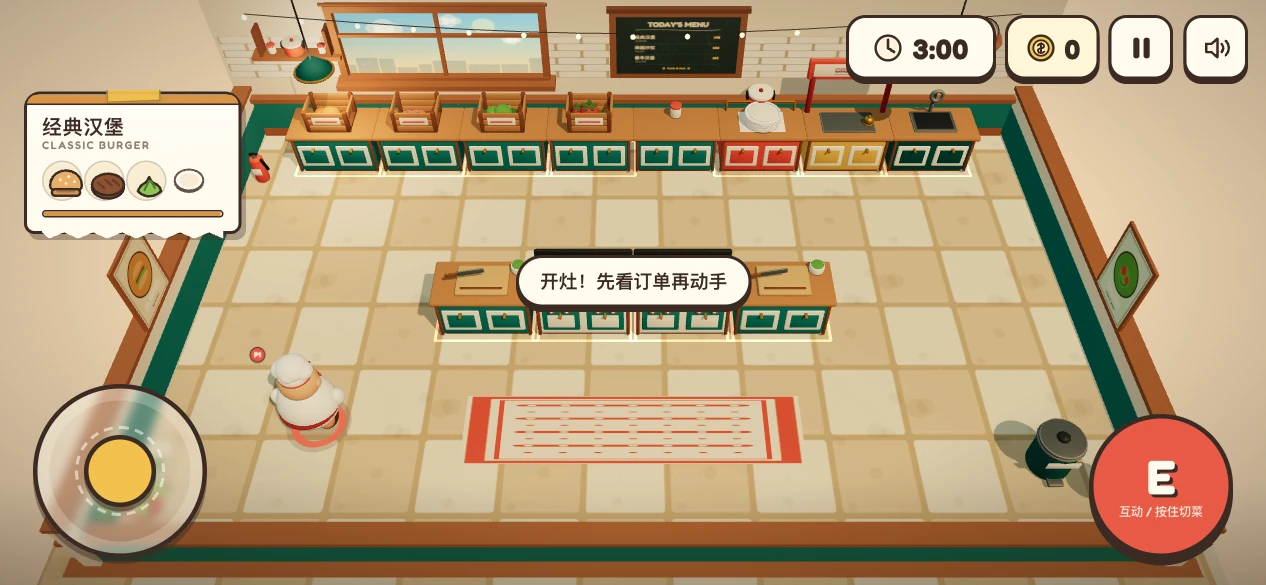
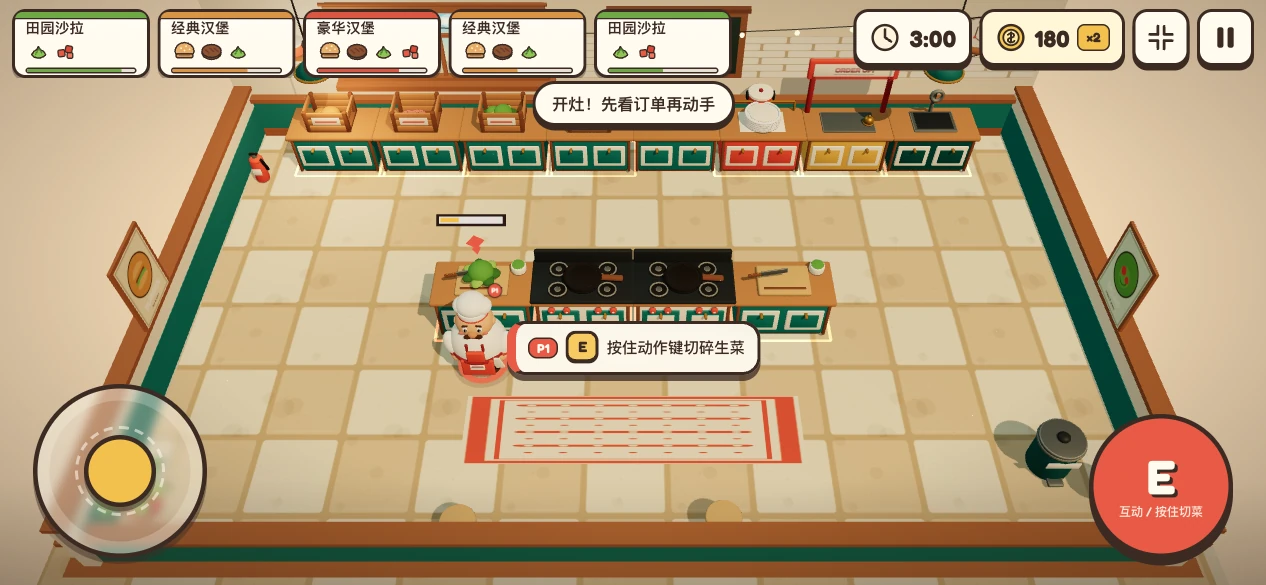
fix: compact mobile order rail so it no longer blocks play

diff --git a/src/App.css b/src/App.css
@@ -3317,3 +3317,237 @@
     font-size: 0.8rem;
   }
 }
+
+/* ===================================================== compact mobile HUD */
+/* Phones have very little vertical room: keep the order rail to one short
+   strip beside the stats instead of stacking two large rows over the kitchen. */
+
+.score-combo {
+  display: none;
+}
+
+@media (max-width: 980px) {
+  .hud {
+    padding: max(6px, env(safe-area-inset-top)) 8px
+      max(8px, env(safe-area-inset-bottom));
+  }
+
+  .hud-top {
+    grid-template-columns: minmax(0, 1fr) auto;
+    grid-template-areas: "orders stats";
+    gap: 6px;
+    align-items: start;
+  }
+
+  .order-rail {
+    height: 46px;
+    min-height: 0;
+    padding: 0;
+    gap: 5px;
+    align-items: stretch;
+    justify-content: flex-start;
+  }
+
+  .order-ticket {
+    flex: 0 0 92px;
+    width: 92px;
+    min-width: 92px;
+    max-width: 92px;
+    height: 46px;
+    padding: 5px 7px 4px;
+    border-width: 2px;
+    border-radius: 9px;
+    box-shadow: 0 2px 0 rgba(59, 42, 35, 0.35);
+  }
+
+  .order-ticket::before {
+    height: 4px;
+    border-radius: 6px 6px 0 0;
+    border-bottom-width: 1px;
+  }
+
+  .order-ticket::after,
+  .ticket-pin,
+  .ticket-en,
+  .ticket-plate {
+    display: none;
+  }
+
+  .ticket-top {
+    margin-top: 0;
+    min-width: 0;
+  }
+
+  .ticket-name {
+    overflow: hidden;
+    font-size: 0.62rem;
+    line-height: 1.15;
+    text-overflow: ellipsis;
+    white-space: nowrap;
+  }
+
+  .ticket-ingredients {
+    gap: 0;
+    min-height: 18px;
+    margin: 1px 0 2px;
+  }
+
+  .ticket-ingredient {
+    width: 18px;
+    height: 18px;
+    border: 0;
+    background: transparent;
+  }
+
+  .ticket-ingredient svg {
+    width: 18px;
+    height: 18px;
+  }
+
+  .ticket-timer {
+    height: 4px;
+    border-width: 1px;
+    border-radius: 3px;
+  }
+
+  .order-empty {
+    flex-direction: row;
+    gap: 5px;
+    min-width: 190px;
+    min-height: 0;
+    height: 46px;
+    padding: 0 10px;
+    font-size: 0.6rem;
+  }
+
+  .order-empty span {
+    font-size: 0.52rem;
+  }
+
+  .hud-stats {
+    gap: 5px;
+  }
+
+  .stat-pill {
+    min-height: 38px;
+    padding: 5px 8px;
+    border-width: 2px;
+    border-radius: 10px;
+  }
+
+  .timer {
+    min-width: 78px;
+    font-size: 0.98rem;
+  }
+
+  .score-pill {
+    font-size: 0.98rem;
+  }
+
+  .hud-buttons {
+    gap: 5px;
+  }
+
+  .hud-btn {
+    width: 38px;
+    height: 38px;
+    border-width: 2px;
+    border-radius: 10px;
+  }
+
+  .hud-mute {
+    display: none;
+  }
+
+  .score-combo {
+    display: inline-flex;
+    align-items: center;
+    justify-content: center;
+    min-width: 22px;
+    height: 18px;
+    padding: 0 4px;
+    border: 1.5px solid var(--ink);
+    border-radius: 5px;
+    background: var(--gold);
+    color: var(--ink);
+    font-size: 0.56rem;
+    font-weight: 700;
+    line-height: 1;
+  }
+
+  .combo-badge {
+    display: none;
+  }
+
+  .toast-stack {
+    top: 56px;
+    width: min(78vw, 430px);
+  }
+
+  .toast {
+    padding: 5px 11px;
+    font-size: 0.68rem;
+  }
+}
+
+@media (max-width: 980px) and (max-height: 540px) {
+  .player-prompt {
+    gap: 5px;
+    padding: 5px 8px;
+    border-left-width: 6px;
+    font-size: 0.64rem;
+  }
+
+  .prompt-player {
+    padding: 1px 5px;
+    font-size: 0.54rem;
+  }
+
+  .prompt-key {
+    min-width: 22px;
+    height: 22px;
+    border-bottom-width: 3px;
+    font-size: 0.62rem;
+  }
+
+  .prompt-carry {
+    max-width: 125px;
+    font-size: 0.55rem;
+  }
+
+  .prompt-carry-dish {
+    overflow: hidden;
+    max-width: 60px;
+    text-overflow: ellipsis;
+    white-space: nowrap;
+  }
+
+  .ticket-name {
+    font-size: 0.6rem;
+  }
+
+  .toast-stack {
+    top: 54px;
+  }
+}
+
+@media (max-width: 720px) {
+  .order-rail {
+    gap: 4px;
+  }
+  .order-ticket {
+    flex-basis: 78px;
+    width: 78px;
+    min-width: 78px;
+    max-width: 78px;
+    padding: 5px 6px 4px;
+  }
+  .ticket-ingredient,
+  .ticket-ingredient svg {
+    width: 16px;
+    height: 16px;
+  }
+  .ticket-name {
+    font-size: 0.58rem;
+  }
+}

diff --git a/src/ui/HUD.tsx b/src/ui/HUD.tsx
@@ -196,6 +196,9 @@ export function HUD({
           <div className="stat-pill score-pill">
             <CoinIcon size={22} />
             <span>{hud.score}</span>
+            {hud.combo > 1 ? (
+              <span className="score-combo">×{hud.combo}</span>
+            ) : null}
           </div>
           <div className="hud-buttons">
             {showFullscreen ? (
@@ -212,7 +215,7 @@ export function HUD({
               <PauseIcon />
             </button>
             <button
-              className="icon-btn hud-btn"
+              className="icon-btn hud-btn hud-mute"
               onClick={onToggleMute}
               aria-label={muted ? "打开声音" : "关闭声音"}
             >

diff --git a/README.md b/README.md
@@ -18,6 +18,7 @@
 - **纯程序化音频**：WebAudio 合成的餐馆摇摆乐与切菜/油锅/出餐音效，无外部音频文件。
 - **响应式与触屏**：移动端横屏会显示虚拟摇杆和互动按钮；竖屏会先提示旋转设备。
 - **全屏与 PWA**：手机开始游戏时自动尝试进入全屏，界面内也有全屏按钮；支持安装到主屏幕，安装后以全屏 App 模式启动。
+- **移动端紧凑订单栏**：订单自动变成单行迷你票据，最多 5 单也能放在顶栏右侧，不再遮住半个厨房。
 - **本地最佳成绩**：完成一局后自动把分数和星级存进 `localStorage`。
 
 | 厨房实战 | 午夜食堂 |
